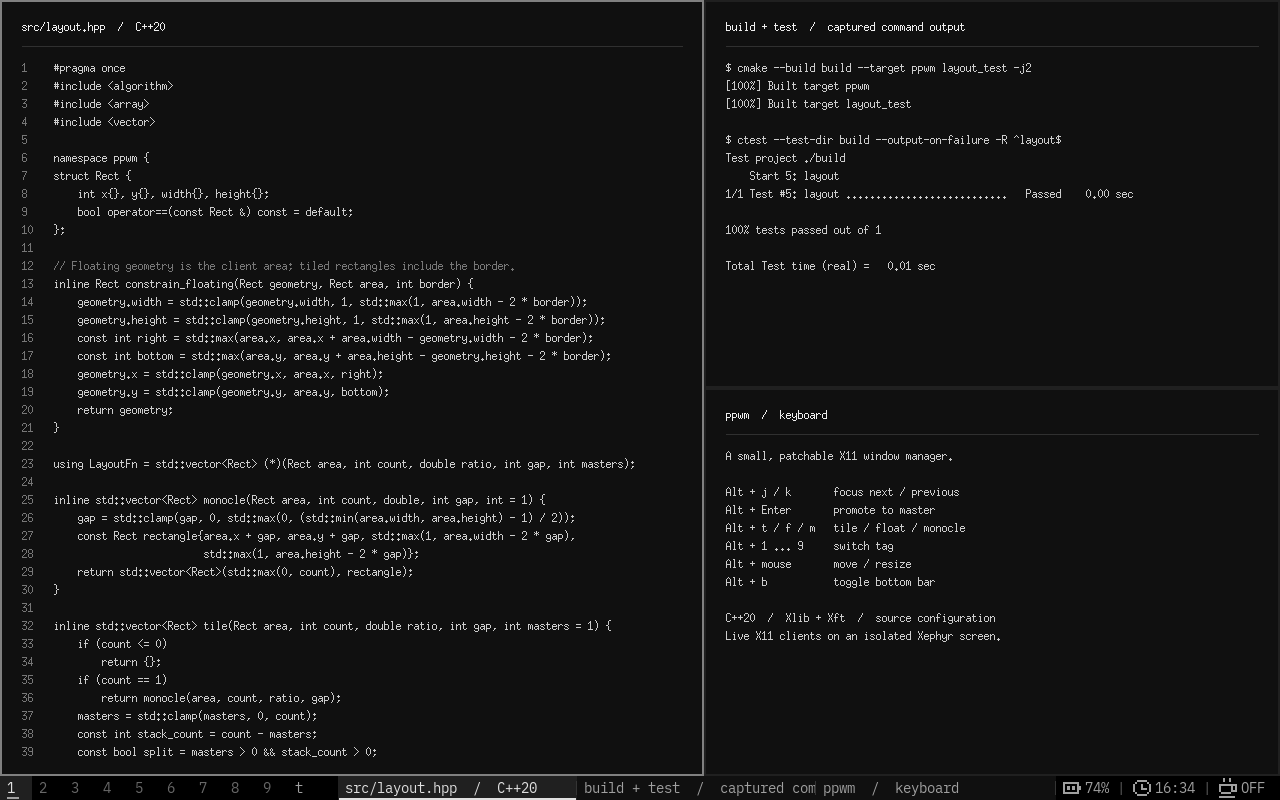
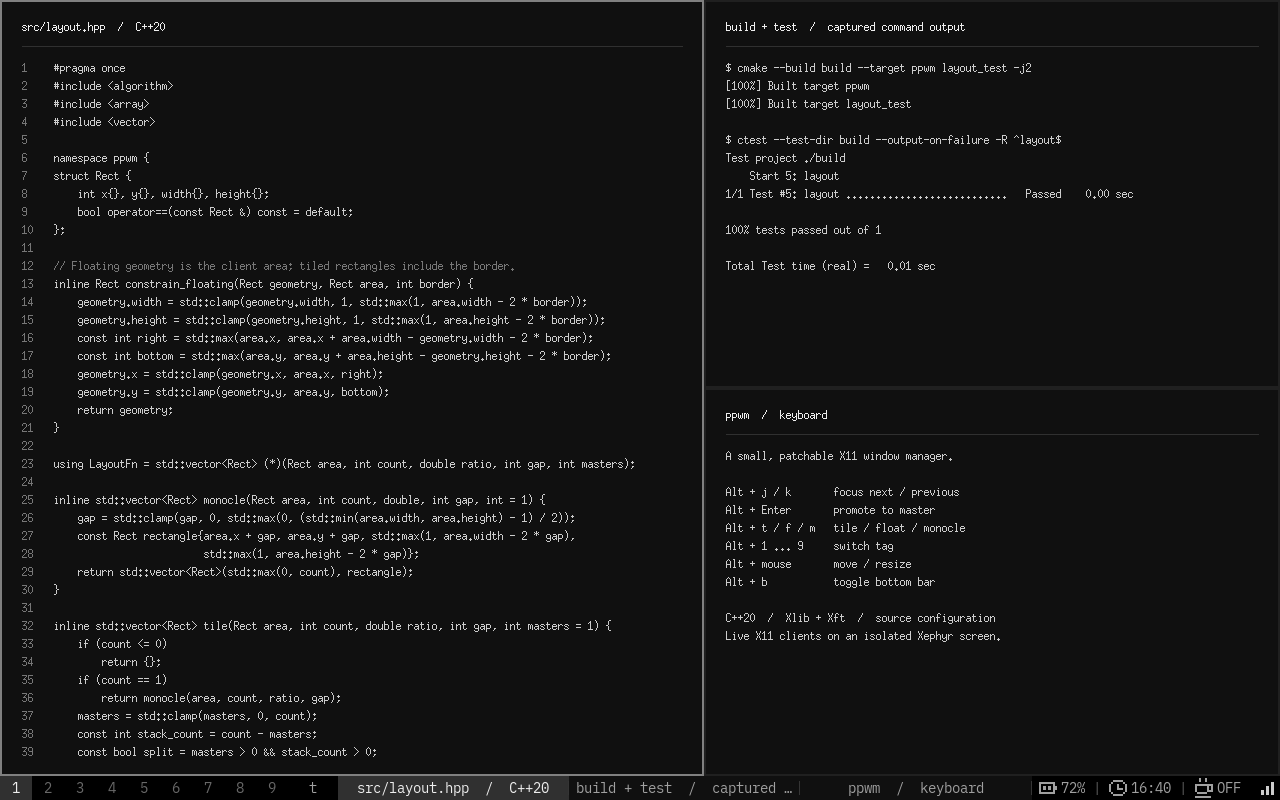
Recover tray ownership and center bar text with color-only selection

Changed region(s): [[0.25, 0.9688, 0.5312, 1.0], [0.8125, 0.9688, 1.0, 1.0], [0.5625, 0.9688, 0.75, 1.0]]

diff --git a/src/bar.cpp b/src/bar.cpp
@@ -82,10 +82,30 @@ void Bar::draw_text(int x, int width, const std::string &value, TextStyle style)
                              : style == TextStyle::Hidden ? &muted_
                                                           : &foreground_;
     XftDrawRect(text_draw_, background, x, 0, static_cast<unsigned>(width), config::bar_height);
-    XftDrawStringUtf8(text_draw_, foreground, font_, x + config::text_padding,
+    std::string label = value;
+    const int available = std::max(0, width - 2 * config::text_padding);
+    int label_width = text_width(label);
+    if (label_width > available) {
+        const std::string ellipsis = "…";
+        const int suffix_width = text_width(ellipsis);
+        if (suffix_width > available)
+            label.clear();
+        else {
+            while (!label.empty() && text_width(label) + suffix_width > available) {
+                auto last = label.size() - 1;
+                while (last > 0 && (static_cast<unsigned char>(label[last]) & 0xc0) == 0x80)
+                    --last;
+                label.resize(last);
+            }
+            label += ellipsis;
+        }
+        label_width = text_width(label);
+    }
+    const int padding = config::center_bar_text ? (width - label_width) / 2 : config::text_padding;
+    XftDrawStringUtf8(text_draw_, foreground, font_, x + padding,
                       (config::bar_height - font_->height) / 2 + font_->ascent,
-                      reinterpret_cast<const FcChar8 *>(value.data()),
-                      static_cast<int>(value.size()));
+                      reinterpret_cast<const FcChar8 *>(label.data()),
+                      static_cast<int>(label.size()));
     XftDrawSetClip(text_draw_, nullptr);
 }
 BarHit Bar::hit_test(int x) const {
@@ -127,8 +147,6 @@ void Bar::render(const BarState &state, int reserved_width) {
                   (state.active_tags & (1u << i)) ? TextStyle::Selected
                   : (state.occupied & (1u << i))  ? TextStyle::Normal
                                                   : TextStyle::Hidden);
-        if (state.occupied & (1u << i))
-            XftDrawRect(text_draw_, &foreground_, x + 7, config::bar_height - 3, 12, 2);
     }
     int left = 9 * config::tag_width;
     draw_text(left, config::layout_width, state.floating ? "[F]" : state.layout);
@@ -154,9 +172,6 @@ void Bar::render(const BarState &state, int reserved_width) {
                                   : TextStyle::Title);
         if (end > start) {
             XftDrawRect(text_draw_, &divider_, end - 1, 5, 1, config::bar_height - 10);
-            if (client.selected)
-                XftDrawRect(text_draw_, &bright_, start + 1, config::bar_height - 2,
-                            static_cast<unsigned>(std::max(0, end - start - 2)), 2);
         }
         regions_.push_back({start, end, {client.window, -1}});
     }

diff --git a/tests/demo.cpp b/tests/demo.cpp
@@ -79,12 +79,41 @@ int main(int argc, char **argv) {
             XSelectInput(display, panel.window, ExposureMask | StructureNotifyMask);
             XMapWindow(display, panel.window);
         }
+        // A real XEmbed fixture makes the tray visible in the demo capture.
+        Window tray_icon = None;
+        const auto tray_name = "_NET_SYSTEM_TRAY_S" + std::to_string(screen);
+        const Window tray = XGetSelectionOwner(display, XInternAtom(display, tray_name.c_str(), False));
+        if (tray != None) {
+            tray_icon = XCreateSimpleWindow(display, DefaultRootWindow(display), 0, 0, 20, 20, 0, 0, 0);
+            XStoreName(display, tray_icon, "ppwm demo tray icon");
+            XSelectInput(display, tray_icon, ExposureMask);
+            const Atom info = XInternAtom(display, "_XEMBED_INFO", False);
+            const long flags[]{0, 1};
+            XChangeProperty(display, tray_icon, info, info, 32, PropModeReplace,
+                            reinterpret_cast<const unsigned char *>(flags), 2);
+            XEvent dock{};
+            dock.xclient.type = ClientMessage;
+            dock.xclient.window = tray;
+            dock.xclient.message_type = XInternAtom(display, "_NET_SYSTEM_TRAY_OPCODE", False);
+            dock.xclient.format = 32;
+            dock.xclient.data.l[2] = static_cast<long>(tray_icon);
+            XSendEvent(display, tray, False, NoEventMask, &dock);
+        }
         XFlush(display);
         while (true) {
             XEvent event{};
             XNextEvent(display, &event);
             if (event.type != Expose && event.type != ConfigureNotify)
                 continue;
+            if (event.xany.window == tray_icon) {
+                XClearWindow(display, tray_icon);
+                XSetForeground(display, gc, foreground);
+                for (int bar = 0; bar < 3; ++bar)
+                    XFillRectangle(display, tray_icon, gc, 3 + 5 * bar, 12 - 4 * bar, 3,
+                                   static_cast<unsigned>(5 + 4 * bar));
+                XFlush(display);
+                continue;
+            }
             for (const auto &panel : panels) {
                 if (event.xany.window != panel.window)
                     continue;

diff --git a/src/system_tray.cpp b/src/system_tray.cpp
@@ -13,22 +13,31 @@ constexpr long mapped_flag = 1;
 } // namespace
 
 SystemTray::SystemTray(Display *display, int screen, Window bar, int bar_width)
-    : display_(display), root_(RootWindow(display, screen)), bar_(bar), bar_width_(bar_width) {
+    : display_(display), root_(RootWindow(display, screen)), bar_(bar), screen_(screen),
+      bar_width_(bar_width) {
     const auto name = "_NET_SYSTEM_TRAY_S" + std::to_string(screen);
     selection_ = XInternAtom(display_, name.c_str(), False);
     opcode_ = XInternAtom(display_, "_NET_SYSTEM_TRAY_OPCODE", False);
     xembed_ = XInternAtom(display_, "_XEMBED", False);
     xembed_info_ = XInternAtom(display_, "_XEMBED_INFO", False);
+    refresh();
+}
+
+void SystemTray::refresh() {
+    const auto now = std::chrono::steady_clock::now();
+    if (!config::tray_enabled || window_ || now < next_attempt_)
+        return;
+    next_attempt_ = now + config::tray_retry_interval;
     if (XGetSelectionOwner(display_, selection_) != None)
         return;
 
-    window_ = XCreateSimpleWindow(display_, bar, 0, 0, 1, config::bar_height, 0, 0, 0);
+    window_ = XCreateSimpleWindow(display_, bar_, 0, 0, 1, config::bar_height, 0, 0, 0);
     XStoreName(display_, window_, "ppwm-tray");
     XSelectInput(display_, window_, SubstructureRedirectMask | SubstructureNotifyMask);
     const auto orientation = XInternAtom(display_, "_NET_SYSTEM_TRAY_ORIENTATION", False);
     const auto visual_property = XInternAtom(display_, "_NET_SYSTEM_TRAY_VISUAL", False);
     unsigned long horizontal = 0;
-    VisualID visual = XVisualIDFromVisual(DefaultVisual(display_, screen));
+    VisualID visual = XVisualIDFromVisual(DefaultVisual(display_, screen_));
     XChangeProperty(display_, window_, orientation, XA_CARDINAL, 32, PropModeReplace,
                     reinterpret_cast<unsigned char *>(&horizontal), 1);
     XChangeProperty(display_, window_, visual_property, XA_VISUALID, 32, PropModeReplace,

diff --git a/src/config.hpp b/src/config.hpp
@@ -12,6 +12,9 @@ inline constexpr std::array<std::string_view, 5> terminal_classes{"urxvt", "xter
                                                                   "alacritty", "kitty"};
 inline constexpr bool swallow_automatic = true;
 inline constexpr int bar_height = 24, border = 2, gap = 0, tag_width = 32, snap = 20;
+inline constexpr bool tray_enabled = true;
+inline constexpr auto tray_retry_interval = std::chrono::milliseconds(2000);
+inline constexpr bool center_bar_text = true;
 inline constexpr int tray_icon_size = 20, tray_spacing = 2;
 inline constexpr int layout_width = 50, text_padding = 7;
 inline constexpr int default_master_count = 1;
@@ -28,8 +31,8 @@ inline constexpr const char *slstatus_click = nullptr;
 inline constexpr auto status_interval = std::chrono::milliseconds(2000);
 inline constexpr char font[] =
     "Lilex Nerd Font Mono:style=Regular:pixelsize=14:antialias=true:hinting=true";
-inline constexpr char background[] = "#000000", foreground[] = "#a0a0a0", accent[] = "#202020";
-inline constexpr char bar_muted[] = "#686868", bar_bright[] = "#e0e0e0";
+inline constexpr char background[] = "#000000", foreground[] = "#a0a0a0", accent[] = "#303030";
+inline constexpr char bar_muted[] = "#686868", bar_bright[] = "#eeeeee";
 inline constexpr char bar_title_background[] = "#101010", bar_divider[] = "#353535";
 inline constexpr char normal_border[] = "#202020", selected_border[] = "#808080";
 inline constexpr char terminal[] = "urxvtc +j || urxvt +j";

diff --git a/tests/tray_test.cpp b/tests/tray_test.cpp
@@ -112,8 +112,19 @@ int main() {
     wait_until([&] { return parent_of(first) == root; }, "selection loss detaches live icon");
     require(XGetSelectionOwner(display, selection) == replacement,
             "old tray does not clear new owner");
-    XDestroyWindow(display, first);
     XDestroyWindow(display, replacement);
+    XFlush(display);
+    wait_until(
+        [&] {
+            owner = XGetSelectionOwner(display, selection);
+            return owner != None && owner != replacement;
+        },
+        "tray recovers when replacement manager exits");
+    dock(first);
+    wait_until(
+        [&] { return parent_of(first) == owner && attributes(first).map_state == IsViewable; },
+        "live icon docks again after ownership recovery");
+    XDestroyWindow(display, first);
     XCloseDisplay(display);
     std::cout << "Tray integration passed\n";
 }

diff --git a/src/system_tray.hpp b/src/system_tray.hpp
@@ -1,5 +1,6 @@
 #pragma once
 #include <X11/Xlib.h>
+#include <chrono>
 #include <vector>
 
 namespace ppwm {
@@ -16,6 +17,7 @@ class SystemTray {
     }
     bool handle_event(const XEvent &event);
     void resize(int bar_width);
+    void refresh();
 
   private:
     struct Icon {
@@ -25,7 +27,8 @@ class SystemTray {
     Display *display_;
     Window root_, bar_, window_{};
     Atom selection_, opcode_, xembed_, xembed_info_;
-    int bar_width_, width_{};
+    int screen_, bar_width_, width_{};
+    std::chrono::steady_clock::time_point next_attempt_{};
     std::vector<Icon> icons_;
 
     Icon *find_icon(Window window);

diff --git a/src/window_manager.cpp b/src/window_manager.cpp
@@ -198,6 +198,7 @@ void WindowManager::run() {
         }
         auto now = clock::now();
         if (now >= deadline) {
+            tray_->refresh();
             BarState bar_state;
             bar_state.clients.reserve(clients_.size());
             bar_state.active_tags = workspace_.active_tags();

diff --git a/README.md b/README.md
@@ -4,7 +4,7 @@ Minimal, patchlenebilir bir C++20 X11 pencere yöneticisi.
 
 ![Xephyr içinde ppwm](assets/ppwm.png)
 
-Gerçek Xephyr oturumundan alınmıştır; görüntüdeki istemciler demo programına aittir.
+Gerçek Xephyr oturumundan alınmıştır; görüntüdeki istemciler ve sağdaki XEmbed tray ikonu demo programına aittir.
 
 - Otomatik master/stack döşeme, floating ve monocle yerleşimleri.
 - Birlikte görüntülenebilen dokuz etiket; etiket başına yerleşim, oran, master sayısı ve bar ayarı.
@@ -112,7 +112,7 @@ inline constexpr unsigned MOD = Mod1Mask; // Alt; Super için Mod4Mask
 
 Örnekleri eklerken aynı tuşun mevcut kaydını değiştir; `config` testi çakışan kısayolları bildirir. Etiket hedefleri 1–9 aralığındadır. Ayarlar derleme zamanındadır; değişiklikten sonra yeniden derle, kur ve ppwm'yi yeniden başlat. `keys.hpp` yalnızca eylem/veri tiplerini tanımlar; kullanıcı kısayolları orada değildir.
 
-Varsayılan terminal `urxvtc +j || urxvt +j`, başlatıcı `dmenu_run`'dır. Bazı uygulama tuşları `$HOME/.local/bin` altındaki yardımcı komutları çağırır; bu komutlar depoya dahil değildir. Kendi uygulamalarınla değiştirebilirsin. Fontconfig, Lilex Nerd Font Mono bulunamazsa bir yedek font seçer. Yapay kalınlık uygulanmaz; seçili pencere alt çizgiyle, gizli pencereler ve boş etiketler daha sönük renkle ayrılır.
+Varsayılan terminal `urxvtc +j || urxvt +j`, başlatıcı `dmenu_run`'dır. Bazı uygulama tuşları `$HOME/.local/bin` altındaki yardımcı komutları çağırır; bu komutlar depoya dahil değildir. Kendi uygulamalarınla değiştirebilirsin. Fontconfig, Lilex Nerd Font Mono bulunamazsa bir yedek font seçer. Yapay kalınlık uygulanmaz; metinler kendi alanlarında ortalanır. Seçili etiket/pencere açık zemin ve parlak yazıyla, gizli pencereler ve boş etiketler daha sönük renkle ayrılır. Alt çizgi kullanılmaz; uzun başlıklar UTF-8 sınırları korunarak üç noktayla kısaltılır.
 
 Pil kaynağı `/sys/class/power_supply/BAT0/capacity` olarak ayarlıdır. Keep-awake modülü `$HOME/.cache/keep-awake/running.lock` dosyasının kilit durumunu okur. Modüller shell komutu başlatmaz.
 
@@ -137,7 +137,7 @@ Düz UTF-8 metin ve status2d `^c#RRGGBB^`, `^b#RRGGBB^`, `^d^`, `^fN^`, `^rX,Y,W
 
 ## Sistem tepsisi
 
-Tepsi barın sağındadır. XEmbed ikonlarının eklenmesini, mapped bayrağını, yeniden boyutlandırılmasını, kaldırılmasını ve yönetici değişimini destekler. Bar gizlendiğinde tepsi de gizlenir. İkonlar WM kapanışında uygulamaları öldürmeden ayrılır.
+Tepsi barın sağındadır. `config.hpp` içindeki `tray_enabled`, `tray_icon_size` ve `tray_spacing` ile açılıp boyutlandırılır. Başka bir tray yöneticisi varsa onu devralmaz; yönetici kapanınca `tray_retry_interval` içinde yeniden sahiplik alıp uygulamalara duyurur. XEmbed ikonlarının eklenmesini, mapped bayrağını, yeniden boyutlandırılmasını, kaldırılmasını ve yönetici değişimini destekler. Bar gizlendiğinde tepsi de gizlenir. İkonlar WM kapanışında uygulamaları öldürmeden ayrılır.
 
 D-Bus StatusNotifierItem kullanan uygulamalar için `snixembed` gibi bir XEmbed köprüsü gerekir; ppwm kendisi bir SNI host başlatmaz. Tray balloon mesajları ve klavyeyle ikonlar arası gezinme henüz uygulanmamıştır.
 

diff --git a/docs/PERFORMANCE.md b/docs/PERFORMANCE.md
@@ -118,3 +118,16 @@ Nested integration and second-WM rejection passed.
 ```
 
 Bu tek koşu önceki ölçümlere karşı hız iddiası taşımaz; masaüstü yükü değişebilir. Ekran görüntüsü kurulu slstatus ile ayrı bir gerçek Xephyr oturumunda yenilendi.
+
+## Tray geri kazanımı ve ortalanmış bar
+
+Beş birim testi ve tam Xephyr paketi geçti. Tray testi, başka yöneticinin kapanması ardından ppwm'nin seçimi yeniden alıp canlı ikonu tekrar kabul ettiğini doğrular. Ekran görüntüsünde gerçek XEmbed demo ikonu, ortalanmış başlıklar ve alt çizgisiz renk seçimi bulunur.
+
+```text
+Tray integration passed
+64 windows: map 291.25 ms; 10000 configure requests + tag barrier: 1181.32 ms; restore/destroy 26.7768 ms
+Stress WM CPU seconds: 0.220
+Idle CPU seconds / 3 wall seconds: 0.010; VmRSS: 14416 kB
+Restart executes replacement binary.
+Nested integration and second-WM rejection passed.
+```
